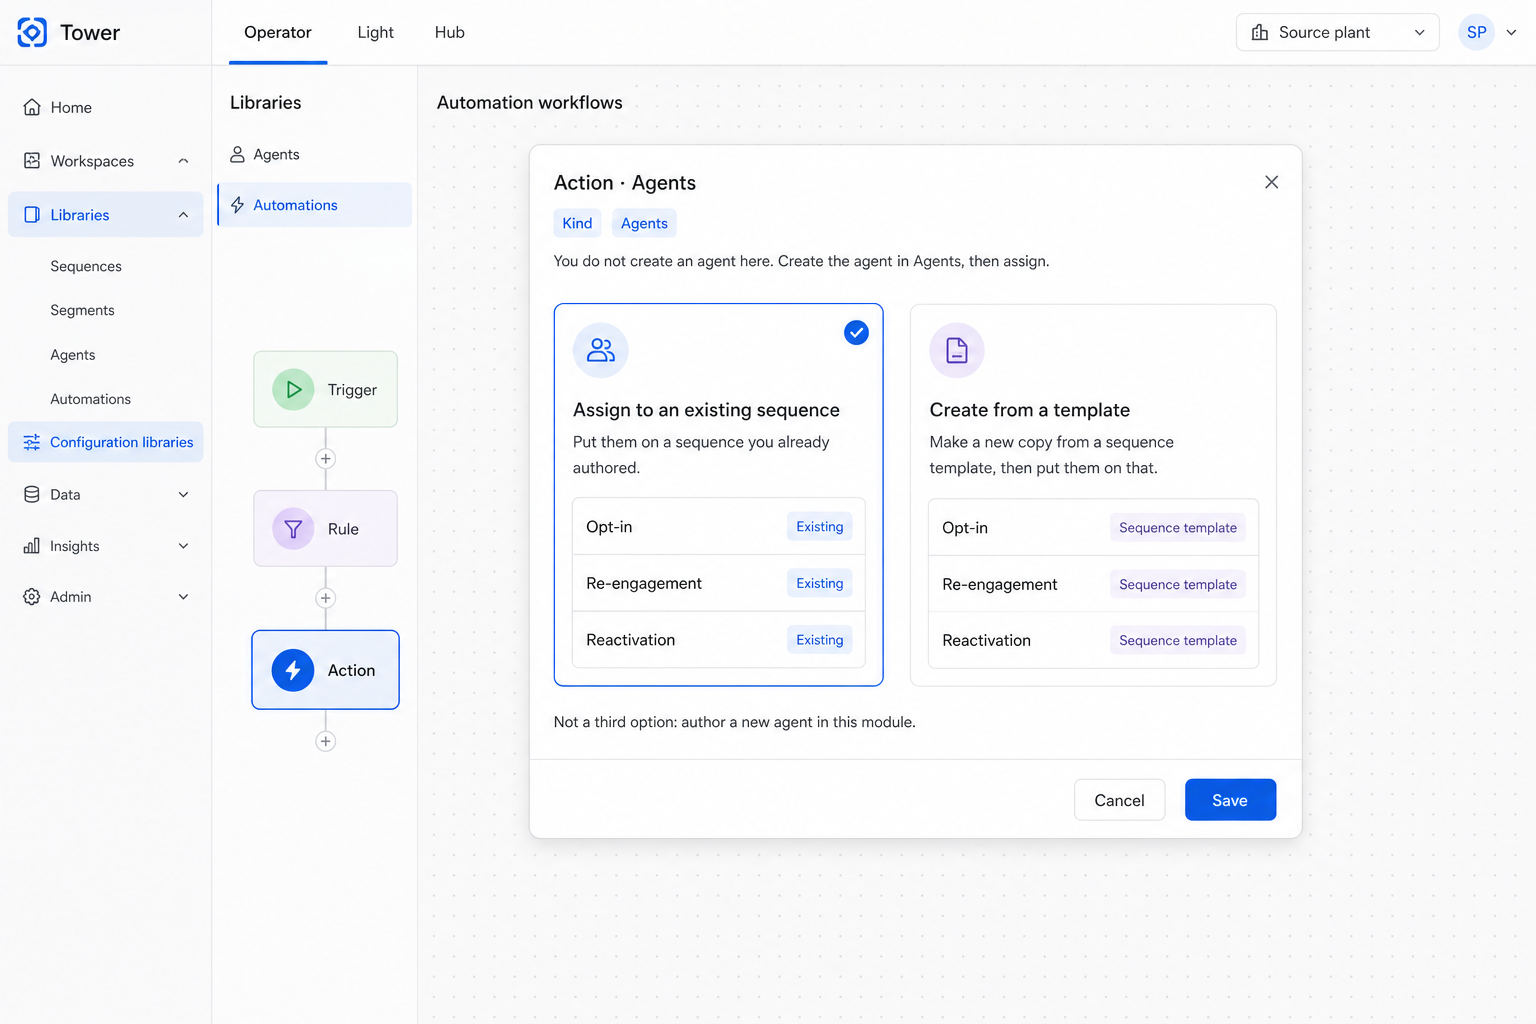
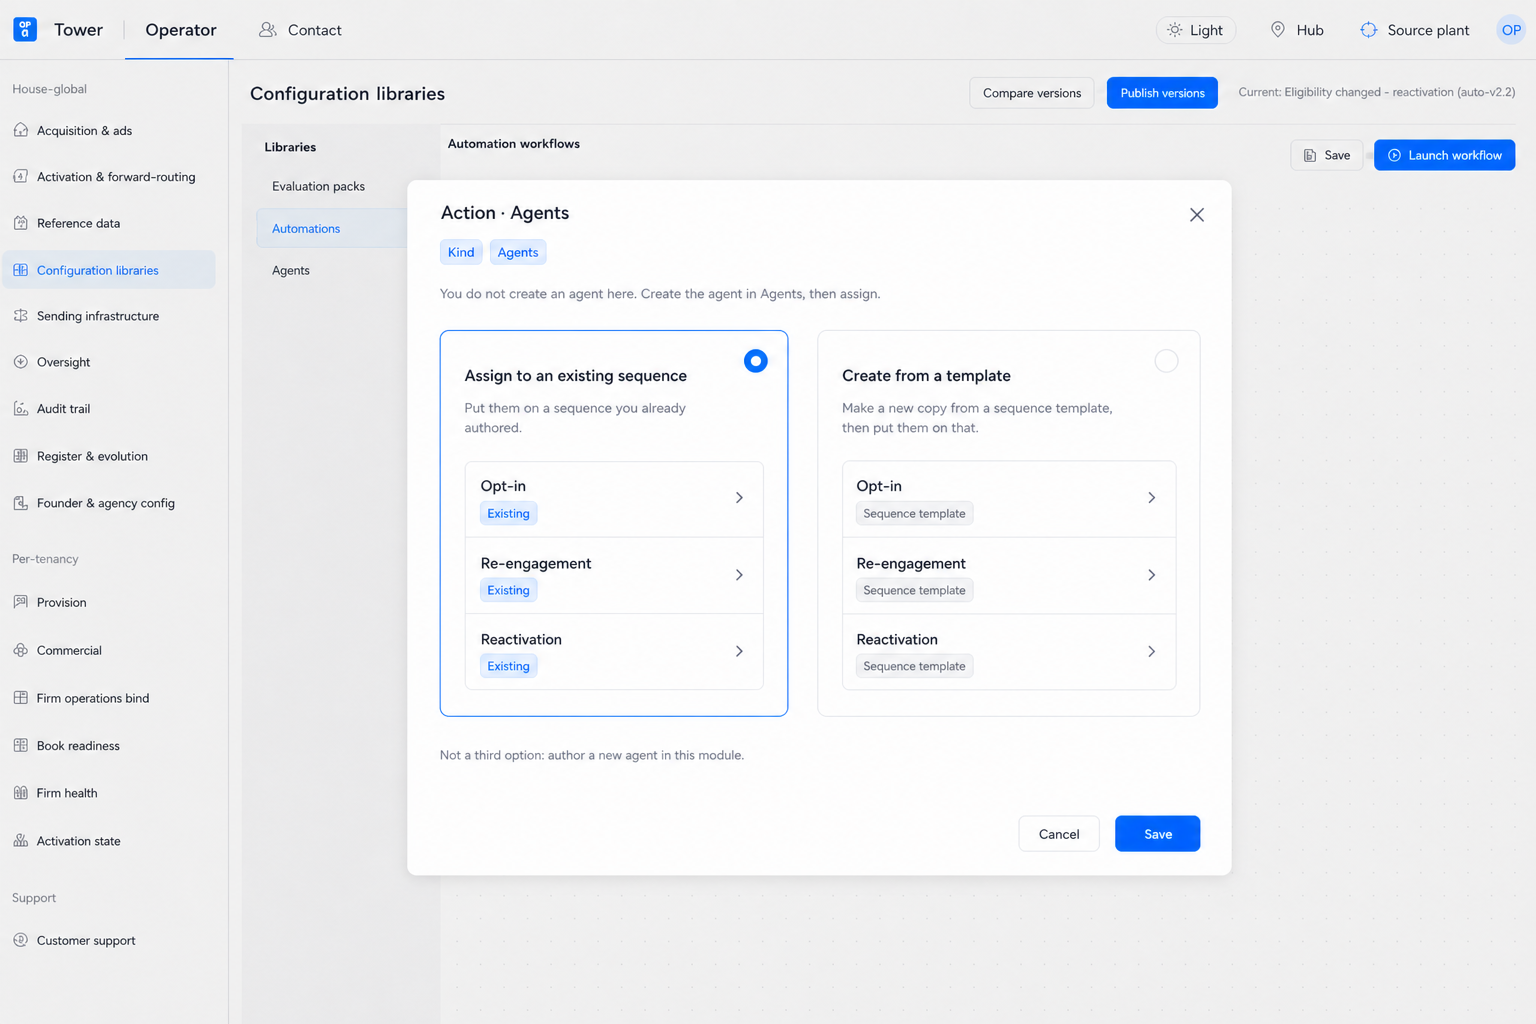
docs: rebuild C8 and A14 on the validated Operator chrome
Surrounding now matches C3/C6/C7 and A8/A7. Add contact lives in the
sequence header with Save and Launch, not inside the Contacts tab.

diff --git a/docs/register/AGENTS-FACE.md b/docs/register/AGENTS-FACE.md
@@ -94,7 +94,7 @@
 11. **Objective ≠ sequence.** Objective = **one campaign**. Sequences have templates; objectives have templates. You do not put “opt-in” in the objective picker.
 12. **First thing on a campaign is the objective.** Hub Automations: trigger node → **Add configuration**. Same seat, not the same module — do not import Automations triggers onto this canvas.
 13. **Untemplated objective is a binary event** (word “event” may change). One yes/no: everyone enrolled is campaigned to do **this one thing**. Happened or it didn’t. Then you name it. Templated objective populates the rest of that campaign.
-14. **Enroll lives on this sequence’s Contacts.** That model **displays who is enrolled**. **Add a contact** is the hand door. Scope named: **this firm / every firm / this contact within this firm**. **Not Publish.** Automations enroll is the other door (on an event). Agents enroll **starts the mission now** — it is not waiting on a current event.
+14. **Enroll lives on this sequence’s Contacts.** That model **displays who is enrolled**. **Add contact** is the hand door, and it lives in the **sequence header** — same row as Save / Launch agent — always there, not inside the Contacts tab body. Scope named: **this firm / every firm / this contact within this firm**. **Not Publish.** Automations enroll is the other door (on an event). Agents enroll **starts the mission now** — it is not waiting on a current event.
 15. **Activity / engagement chart ≠ lineage query.** The engagement chart is a **tree of outreach**. It does **not** connect left to the trigger or event that created the agent or assigned it to the objective. Keep that chart pristine. Who created / path / completion / time is **queryable** (Automations law 29) — a different thing.
 
 ---
@@ -128,7 +128,9 @@ SEQUENCE TEMPLATE  (blank canvas — opt-in / re-engagement / reactivation)
 │
 ├─ Contacts   = who is enrolled on THIS sequence
 │    displays enrolled
-│    Add contact  → this firm / every firm / this contact
+│    Add contact lives in the sequence HEADER (same row as Save / Launch)
+│         not inside the Contacts tab body
+│    scope: this firm / every firm / this contact
 │    starts the mission now (not an event, not Publish)
 │
 └─ next Campaign  (only if prior campaign objective met → qualify)

diff --git a/docs/register/PHASE-TWO-LOG.md b/docs/register/PHASE-TWO-LOG.md
@@ -2,7 +2,7 @@
 
 **Purpose:** Running log so a new agent can start where we stopped. Thesis stays in [`PHASE-TWO.md`](./PHASE-TWO.md). Nothing is more important than this file staying current.
 
-**Current (read first, then the newest stamp at the bottom):** Agents **flagship** = 2026-08-15 15:43 UTC. **00:02:** leftover **2** (enroll) and **6** (copy vs assign) answered. Still left: **3** the message actually leaving; queryable lineage; book-in door. Plates **C8** · **A14**. Do not plant.
+**Current (read first, then the newest stamp at the bottom):** Agents **flagship** = 2026-08-15 15:43 UTC. **00:02:** leftover **2** and **6** answered. **00:51:** C8 · A14 rebuilt on the validated chrome. Add contact lives in the sequence header. Still left: **3** send; lineage; book-in door. Do not plant.
 
 **How we maintain this log**
 
@@ -700,6 +700,20 @@ Flag 15:43 untouched.
 | **6** | **Answered.** Assign existing, or from a template. No create-agent in Automations. |
 
 **Do not:** plant the Ant editor; mint tables; regenerate C1–C7 or A1–A13; treat Hub as the app; overwrite 15:43; put enroll on Publish; draw the engagement chart as the lineage query.
+
+Flag 15:43 untouched.
+
+---
+
+## 2026-08-16 00:51 UTC — C8 and A14 on the validated chrome
+
+**Why:** Founder: the parts that matter are right (Contacts selected; Add contact; assign existing / from a template). The **surrounding looks different**. Build on the **already validated** plates. Same canonical platform.
+
+**Add contact placement:** it is **always in the top portion** of the sequence — same row as Save / Launch agent. Not inside the Contacts tab body. Contacts still displays who is enrolled.
+
+**Plates rebuilt** (same filenames, same law; chrome from C3/C6/C7 and A8/A7/A1). Do not regenerate C1–C7 or A1–A13.
+
+**Do not:** plant; invent new chrome; overwrite 15:43.
 
 Flag 15:43 untouched.
 

diff --git a/docs/register/AGENTS-UI-BLUEPRINT.md b/docs/register/AGENTS-UI-BLUEPRINT.md
@@ -227,9 +227,11 @@ Fallback if a control is not overridden: campaign → sequence Settings → Agen
 **Rationale (00:02):** Drawing the sequence is not putting people on it. The **self path from Agents** is this sequence’s **Contacts** model — it **displays who is enrolled** — plus **Add a contact**. **Not Publish.** Automations enroll is the other door (on an event). Agents enroll **starts the mission now**. Apollo was inspiration, not a clone. Ant already has a Contacts tab with empty copy and no Add button — this plate is the face; do not plant the editor.
 
 **On the glass:**
-- Sequence: Opt-in. Tabs: Editor · **Contacts** (on) · Activity · Report · Settings.
-- Enrolled list behind the modal (names, firm, enrolled date).
-- **Add contact** opens a modal.
+- Same Operator-desk chrome as C3 / C6 / C7 (00:51 rebuild). Do not invent surrounding.
+- Sequence: Opt-in. Header row: Save · **Add contact** · Launch agent. Add contact is **always in that top portion**, not inside the Contacts tab.
+- Tabs: Editor · **Contacts** (on) · Activity · Report · Settings.
+- Enrolled list in the workspace (names, firm, enrolled date).
+- **Add contact** (header) opens a modal.
 - Scope radios: **This firm** (firm picker) · **Every firm** · **This contact within this firm**.
 - Matching people, checkboxes, **Add to sequence**.
 - Caption: “This starts the mission now. It does not wait on an event.”

diff --git a/docs/register/AUTOMATIONS-UI-BLUEPRINT.md b/docs/register/AUTOMATIONS-UI-BLUEPRINT.md
@@ -319,6 +319,7 @@ Fallback: if Ant has no Rule GUI (it does not), the picture is still the face. H
 **Rationale (00:02):** Leftover 6. Keep it simple. **Do not create agents inside Automations.** Create the agent in Agents, then assign. Two choices only: **assign to an existing sequence**, or **create from a template**. Can evolve later — not now. A8 stays so select-agent = whole sequence is visible. A12 stays the form.
 
 **On the glass:**
+- Same Operator-desk chrome as A8 / A7 / A1 (00:51 rebuild). Do not invent surrounding.
 - Kind: Agents.
 - Line: “You do not create an agent here. Create the agent in Agents, then assign.”
 - Two cards: **Assign to an existing sequence** (put them on one you already authored) · **Create from a template** (new copy from a sequence template, then put them on that).
